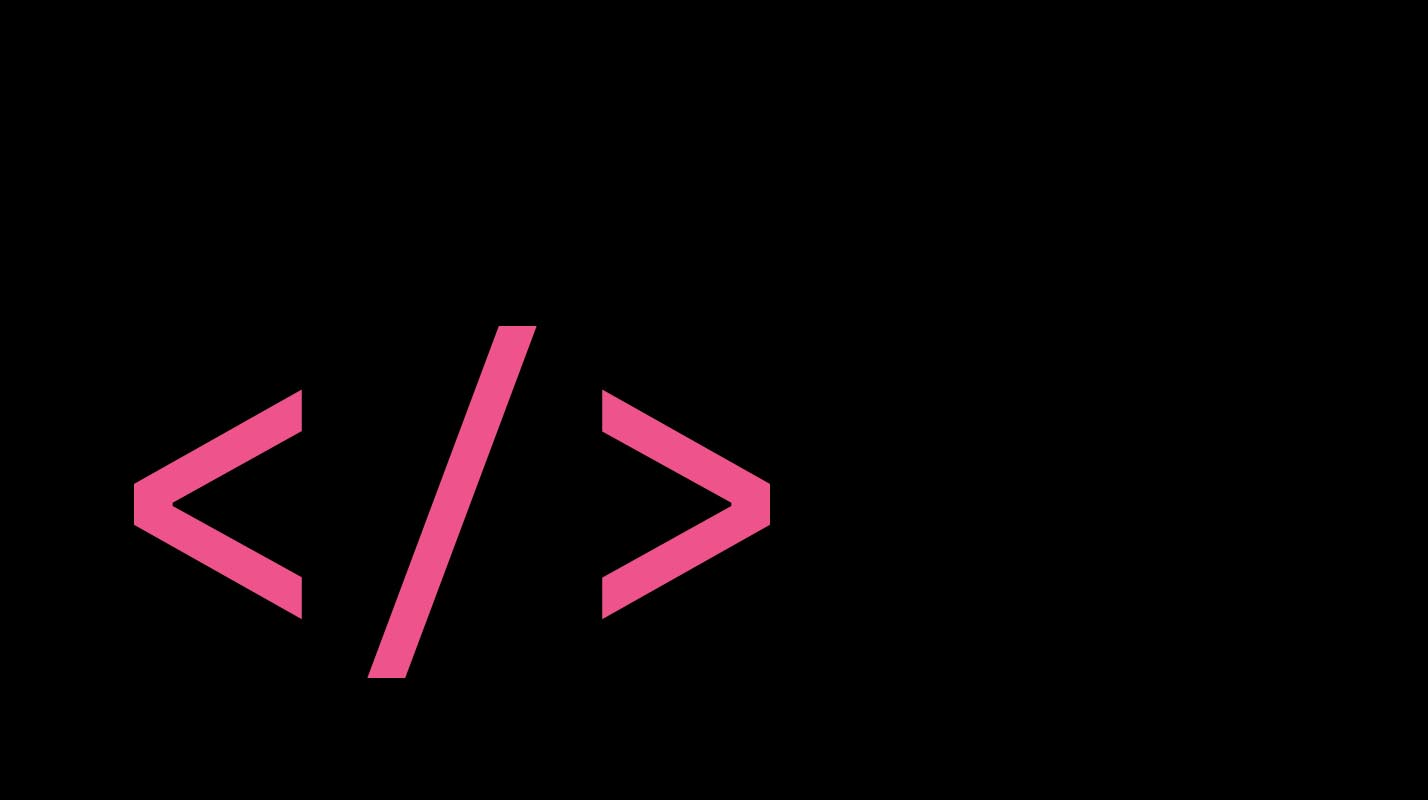
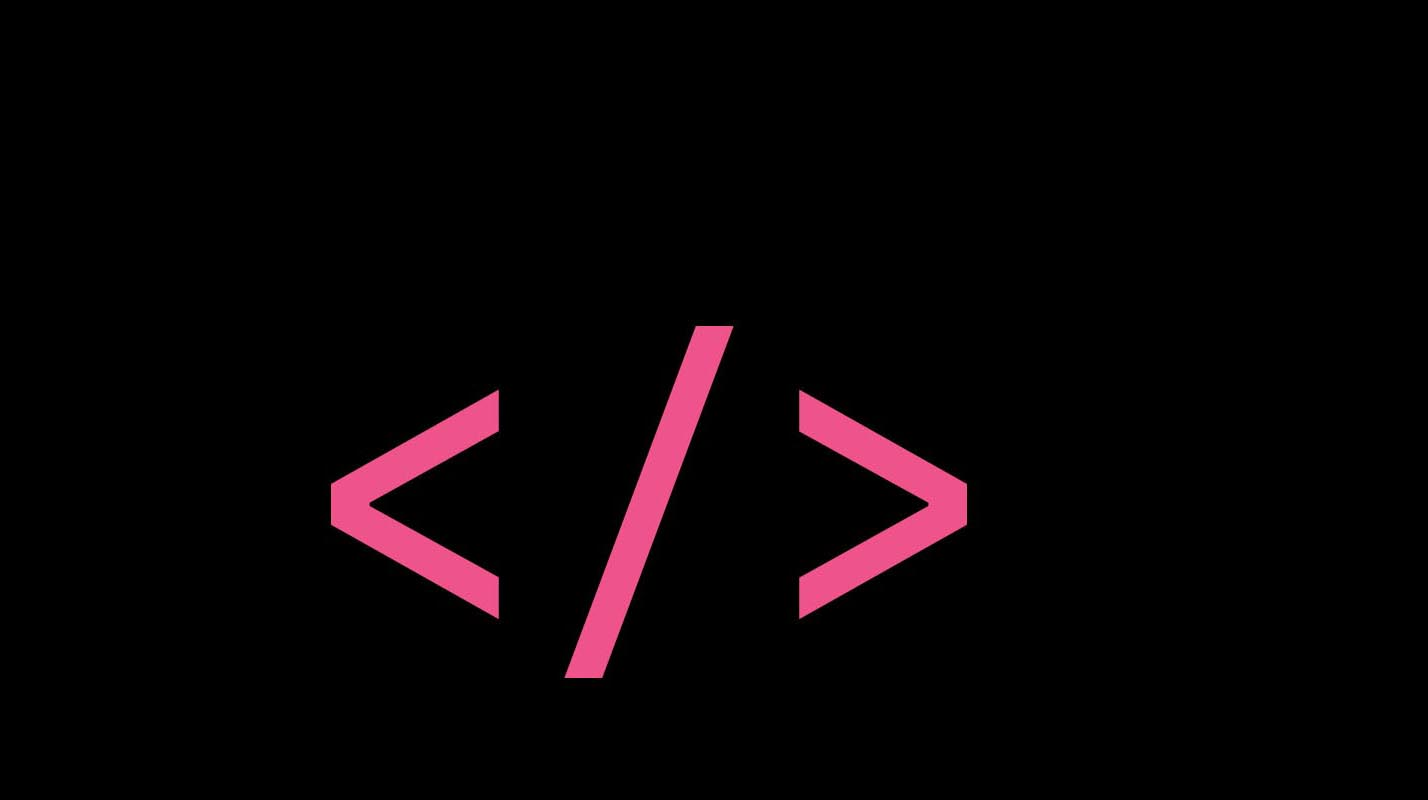
fix(homepage): fixed mobile images

diff --git a/src/styles/_homepage.scss b/src/styles/_homepage.scss
@@ -13,6 +13,14 @@
     padding: 0;
     height: 560px;
   }
+
+  img {
+    margin-top: -50%;
+
+    @include carbon--breakpoint('md') {
+      margin-top: -25%;
+    }
+  }
 }
 
 .homepage--header .bx--grid,
